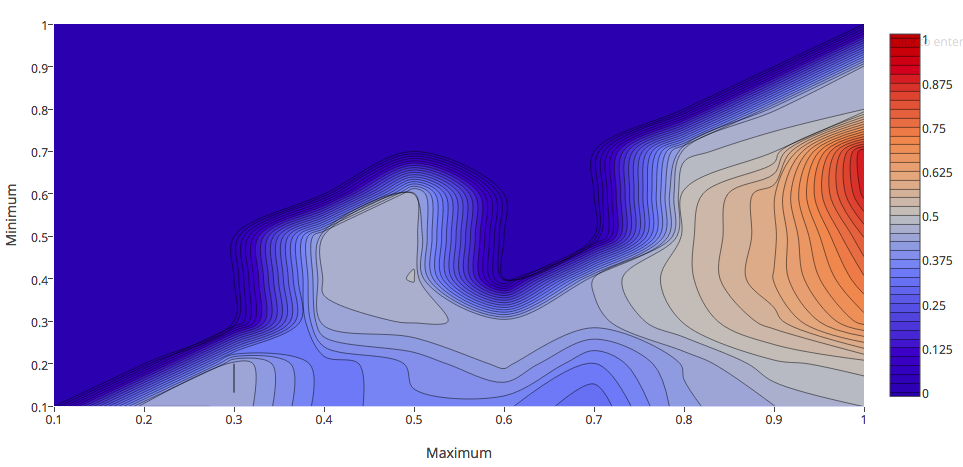
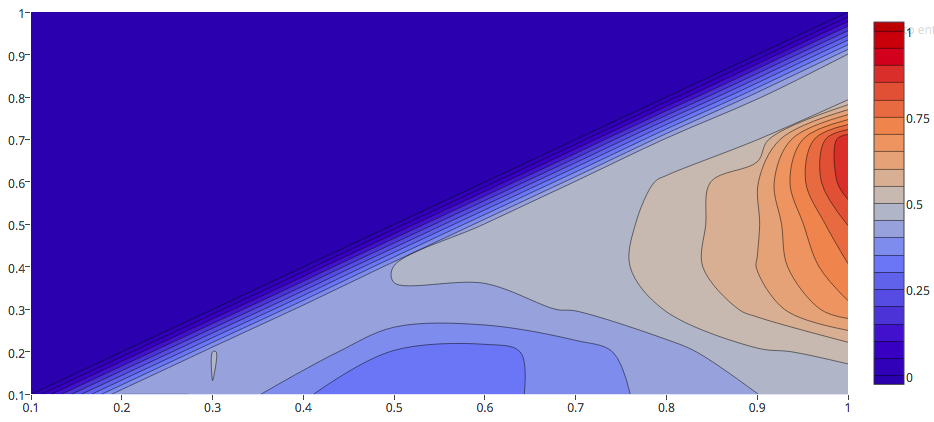
added another plot

diff --git a/report/main.tex b/report/main.tex
@@ -44,7 +44,7 @@ This model has the purpose of studying the segregation of races over time showin
 being surrounded by agents of a different race, they will yet segregate themselves from other agents over time.
 
 For this project we replicated and analyzed the Schelling's Model. Our main goal was to discover the threshold
-where individuals are confortable with other races in their neighborhood and the end result of this variable.
+where agents are confortable with other races in their neighborhood and the end result of this variable.
 
 We decided to continue to use the same language as our first project. So we used \href{https://www.python.org}{Python}.
 To build the interface we used \href{https://wiki.python.org/moin/TkInter}{Tkinter},
@@ -53,19 +53,19 @@ and to draw the graphs (contour plot) we used \href{https://plot.ly/}{plotly}.
 \newpage
 
 \section{Implementation}
-At the start a matrix is initialized and populated with all the individuals and the empty spots.
+At the start a matrix is initialized and populated with all the agents and empty spots.
 This will be the matrix where all the operations will happen.
 
-Then we enter a simple iterative cycle that runs until either all the individuals reach the goal satisfaction
-\footnote{Satisfaction: An individual has a lower and upper boundary that establish the minimum and maximum
-percentage of individuals with his race in the neighborhood. If this limits are respected the individual is considered
+Then we enter a simple iterative cycle that runs until either all the agents reach the goal satisfaction
+\footnote{Satisfaction: An agent has a lower and upper boundary that establish the minimum and maximum
+percentage of agents with his race in the neighborhood. If this limits are respected the agent is considered
 satisfied.}
-or a barrier is reached and it is not possible to satisfy all individuals. This cycle has 3 steps:
+or a barrier is reached and it is not possible to satisfy all agents. This cycle has 3 steps:
 
 \begin{description}
-\item [ Calculate Satisfaction ] Calculates the satisfaction for every individual and return a list with all the unsatisfied ones.
+\item [ Calculate Satisfaction ] Calculates the satisfaction for every agent and return a list with all the unsatisfied ones.
 \item [ Calculate Empty Spaces ] Returns a list of all the empty spaces.
-\item [ Move the Unsatisfied Individuals ] Moves all the unsatisfied individuals to one of the empty spaces available.
+\item [ Move the Unsatisfied agents ] Moves all the unsatisfied agents to one of the empty spaces available.
 \end{description}
 
 \subsection{Heuristics}
@@ -113,6 +113,28 @@ In our interface is possible to change all variables necessary to run the simula
 \begin{figure}[h]
     \centering
     \includegraphics[scale=0.40]{img/ploty.png}
+    \caption{Countour Plot of the minimum (y axis) and maximum (x axis) limits.}
+\end{figure}
+
+As we can see in Figure 1 there is obviously a limit (see \textbf{Figure 2}) where the segregation spikes only beeing
+decreased when lowering the maximum limit. This is the threshold we were looking for.
+
+By analysing the countour plot we can notice that if we fix the maximum limit at 100\% and increase the mininum limit when
+it reaches $0.4$ the segregation increases sizably even though the agents don't mind beeing near 60\% of agents from other
+race they choose to segregate themselves.
+
+On the other hand when it reaches $0.75$ and above it becomes impossible to satisfy all the agents of a sample with 2
+equiprobable races. For this values nothing can be concluded because when the agents can't be satisfied they remain moving
+keeping the segregation at aproximatelly 50\%. This is only possible to assume because when generating the countour plot
+it was used a sample population with 2 equiprobable races.
+
+We also convluded that if we lower the maximum limit the segregation will be lower but it will be also more difficult to
+satisfy all agents and will almost always be some unsatisfied ones.
+
+\begin{figure}[h]
+    \centering
+    \includegraphics[scale=0.40]{img/ploty-a.png}
+    \caption{Same Countour Plot of Figure 1 but with the minimum $0.4$ highlighted.}
 \end{figure}
 
 \newpage
@@ -124,7 +146,7 @@ In our interface is possible to change all variables necessary to run the simula
   \item[Tkinter] \href{https://wiki.python.org/moin/TkInter}{www.wiki.python.org/moin/TkInter}
   \item[plotly] \href{https://plot.ly/}{www.plot.ly}
   \item[Schelling's Model of Segregation] \href{http://nifty.stanford.edu/2014/mccown-schelling-model-segregation/}{www.nifty.stanford.edu/2014/mccown...}
-  \item[Parable of the polygons: A playable post on the shape of society] \href{http://ncase.me/polygons/}{www.case.me/polygons}
+  \item[Parable of the polygons: A playable post on the shape of society] \href{http://ncase.me/polygons/}{www.ncase.me/polygons}
 \end{description}
 
 \newpage
